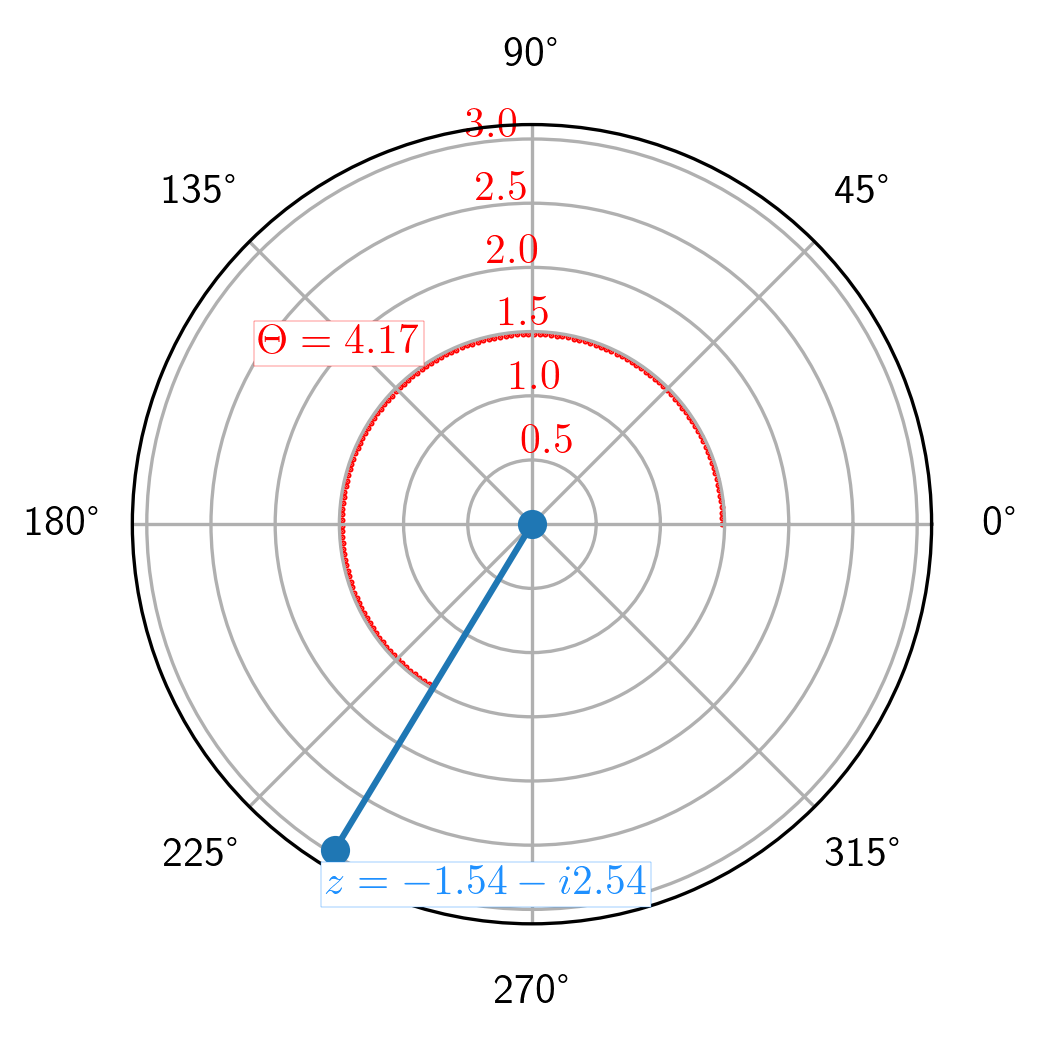
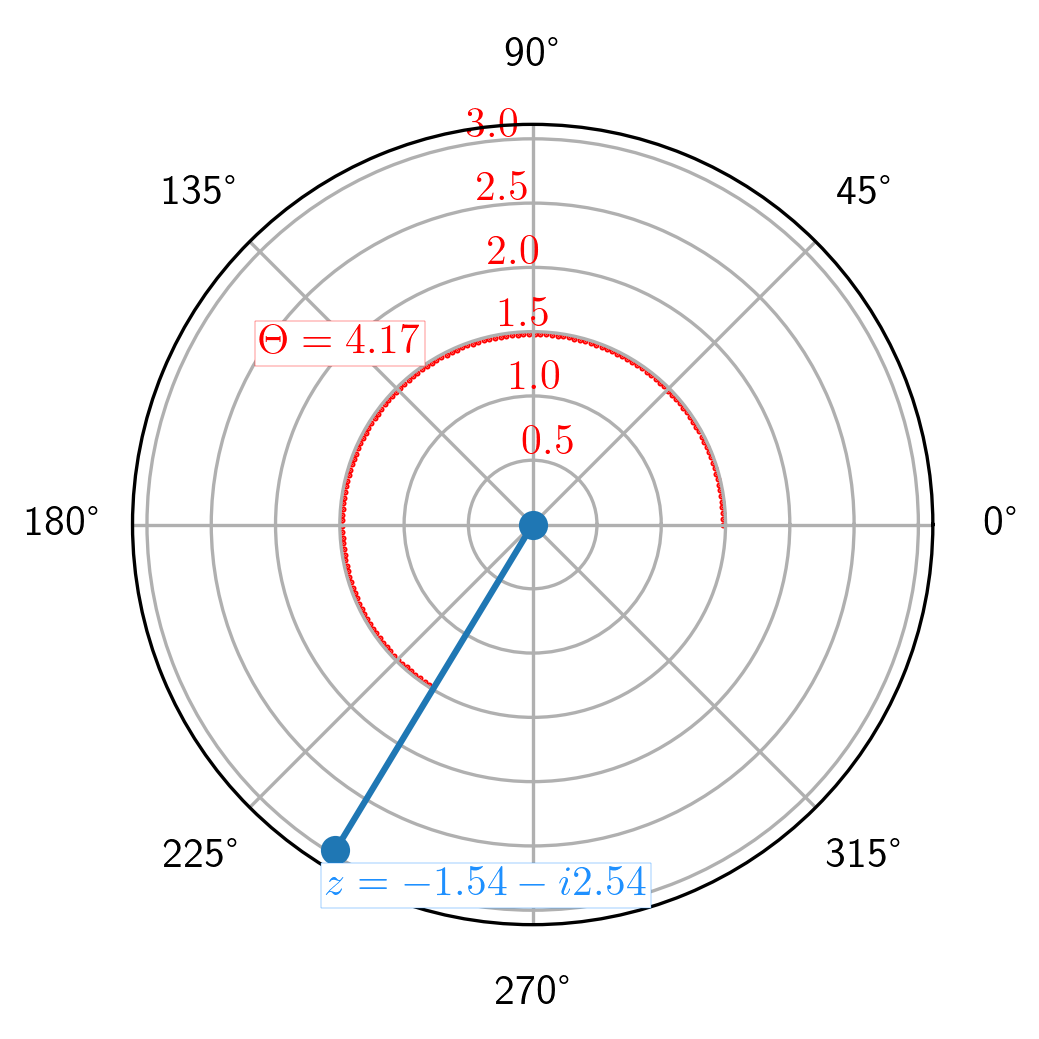
chg: test: added a second \ to \Theta

diff --git a/complex/Complex.py b/complex/Complex.py
@@ -268,7 +268,7 @@ class MyComplex(object):
             ),
         )
         ax.annotate(
-            f"$\Theta= {angle:.2f}$",
+            f"$\\Theta= {angle:.2f}$",
             xy=(angle * 0.5, self.r * 0.6),  # theta, radius
             color="red",
             ha=hat,
